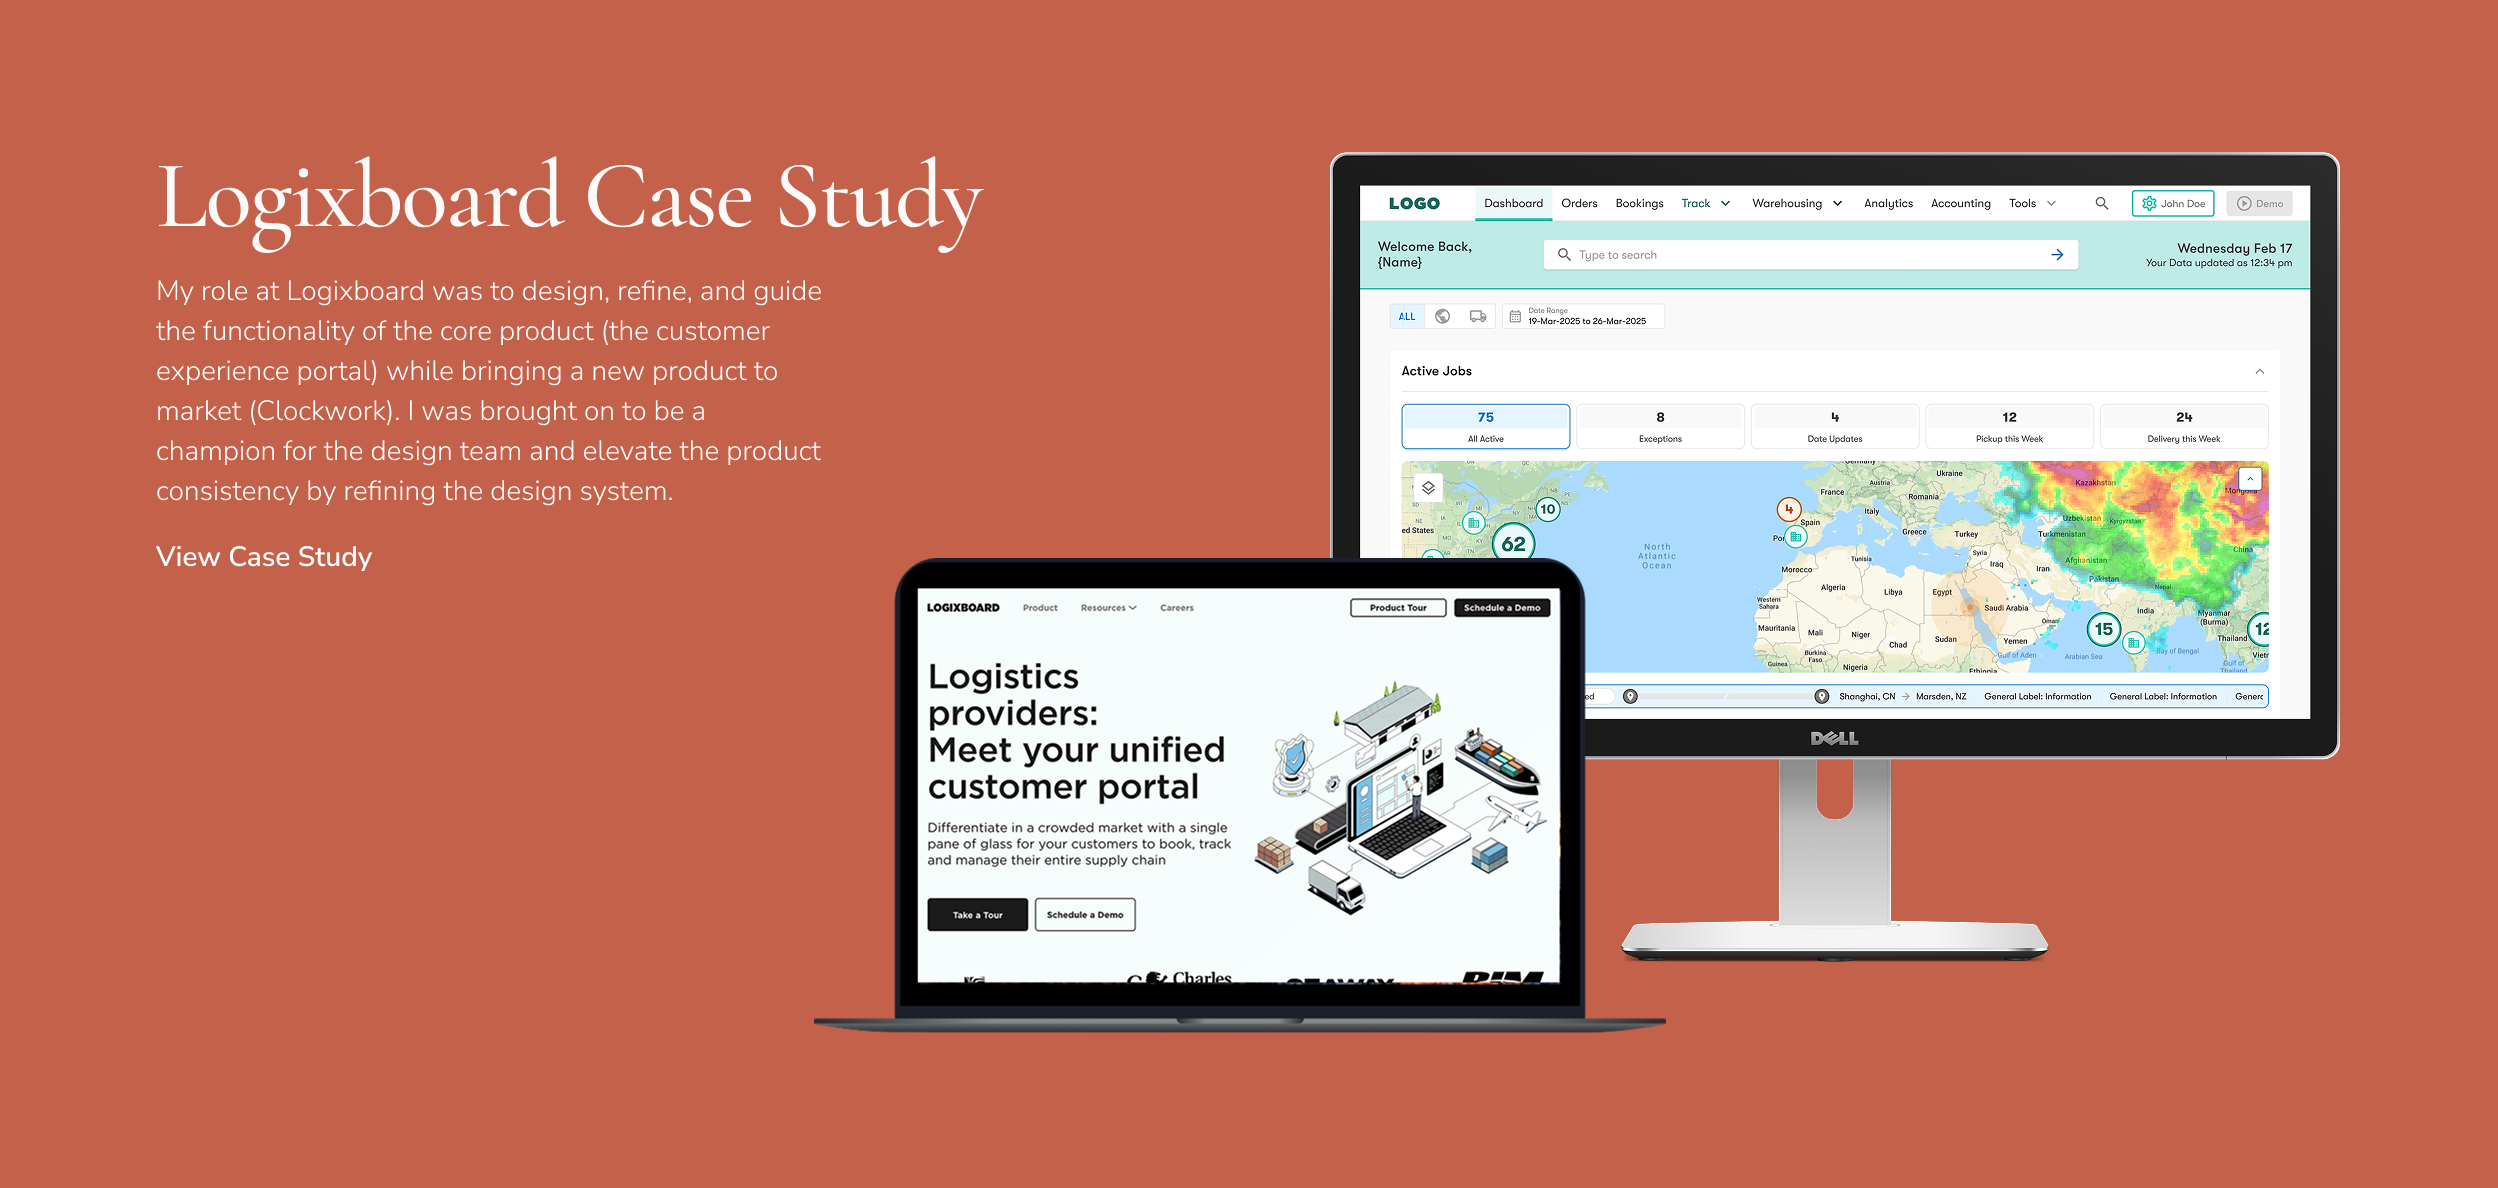
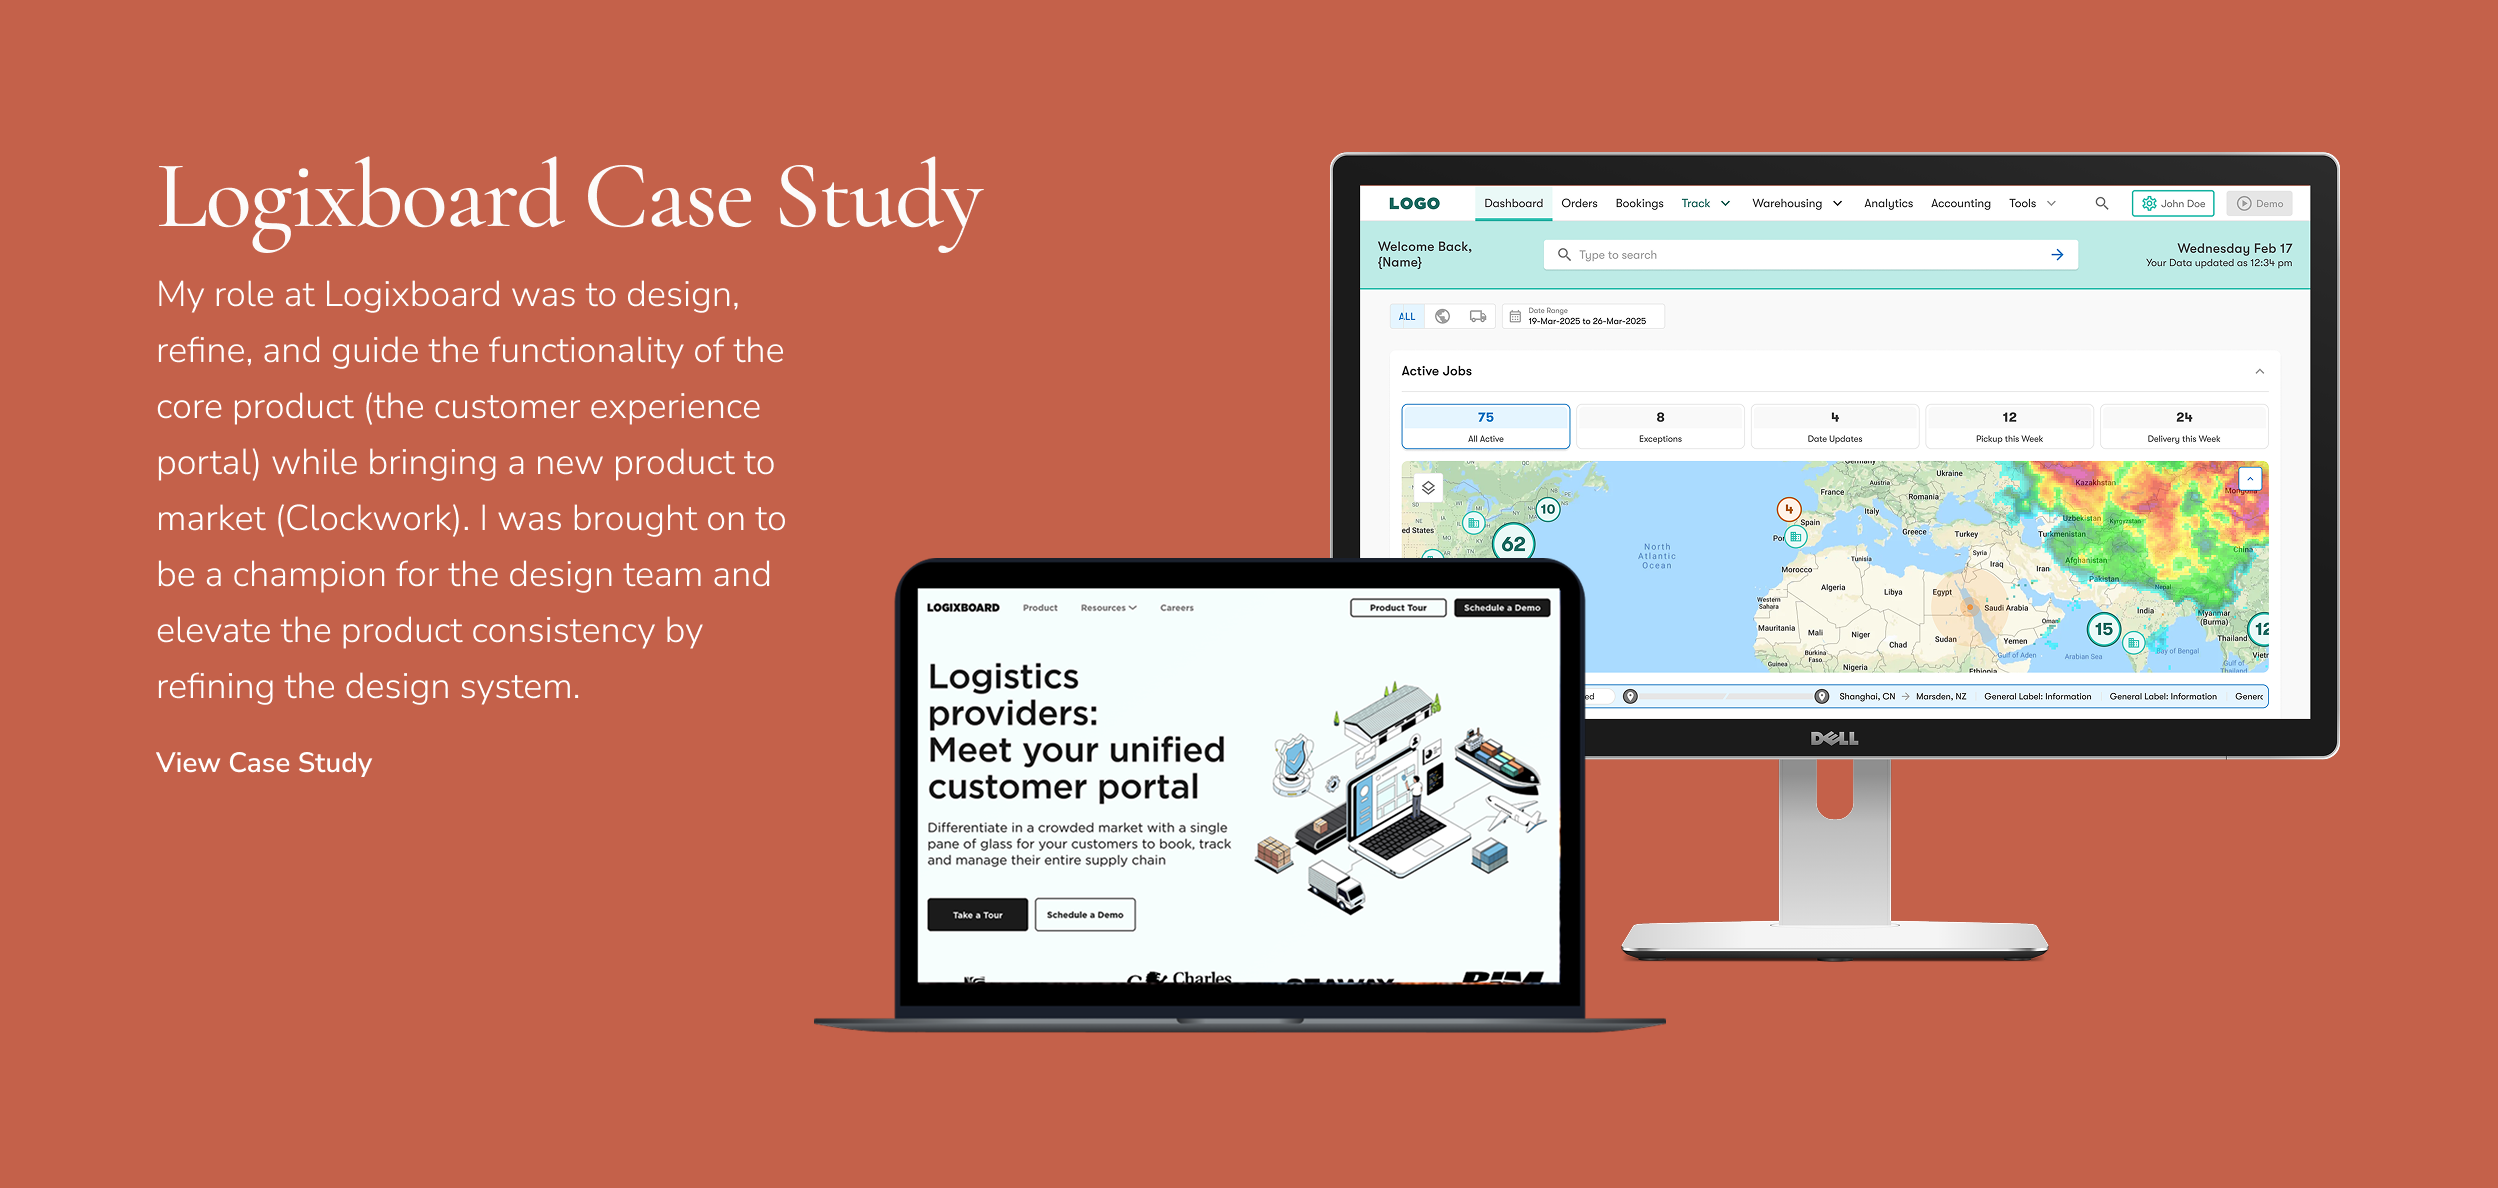
case study tile

Changed region(s): [[0.0624, 0.218, 0.3122, 0.4983], [0.0624, 0.5295, 0.281, 0.5918], [0.0624, 0.6229, 0.1561, 0.654]]

diff --git a/src/app/projects/page.tsx b/src/app/projects/page.tsx
@@ -361,7 +361,7 @@ export default function ProjectsPage() {
           aria-label="View Logixboard case study (opens Figma deck in a new tab)"
         >
           <img
-            src="/images/projects/logixboard-case-study-banner.png?v=2"
+            src="/images/projects/logixboard-case-study-banner.png?v=3"
             alt="Logixboard case study banner: logistics portal mockups and View case study call to action."
             width={2498}
             height={1188}

diff --git a/src/app/globals.css b/src/app/globals.css
@@ -663,7 +663,7 @@ h2.capabilityTitle {
   max-width: 36ch;
   font-family: var(--app-font-body), var(--font-body);
   font-size: var(--text-paragraph-medium-size);
-  line-height: var(--text-paragraph-medium-line-height);
+  line-height: 1.4;
   font-weight: var(--font-weight-regular);
   color: rgba(255, 255, 255, 0.94);
   text-align: left;
